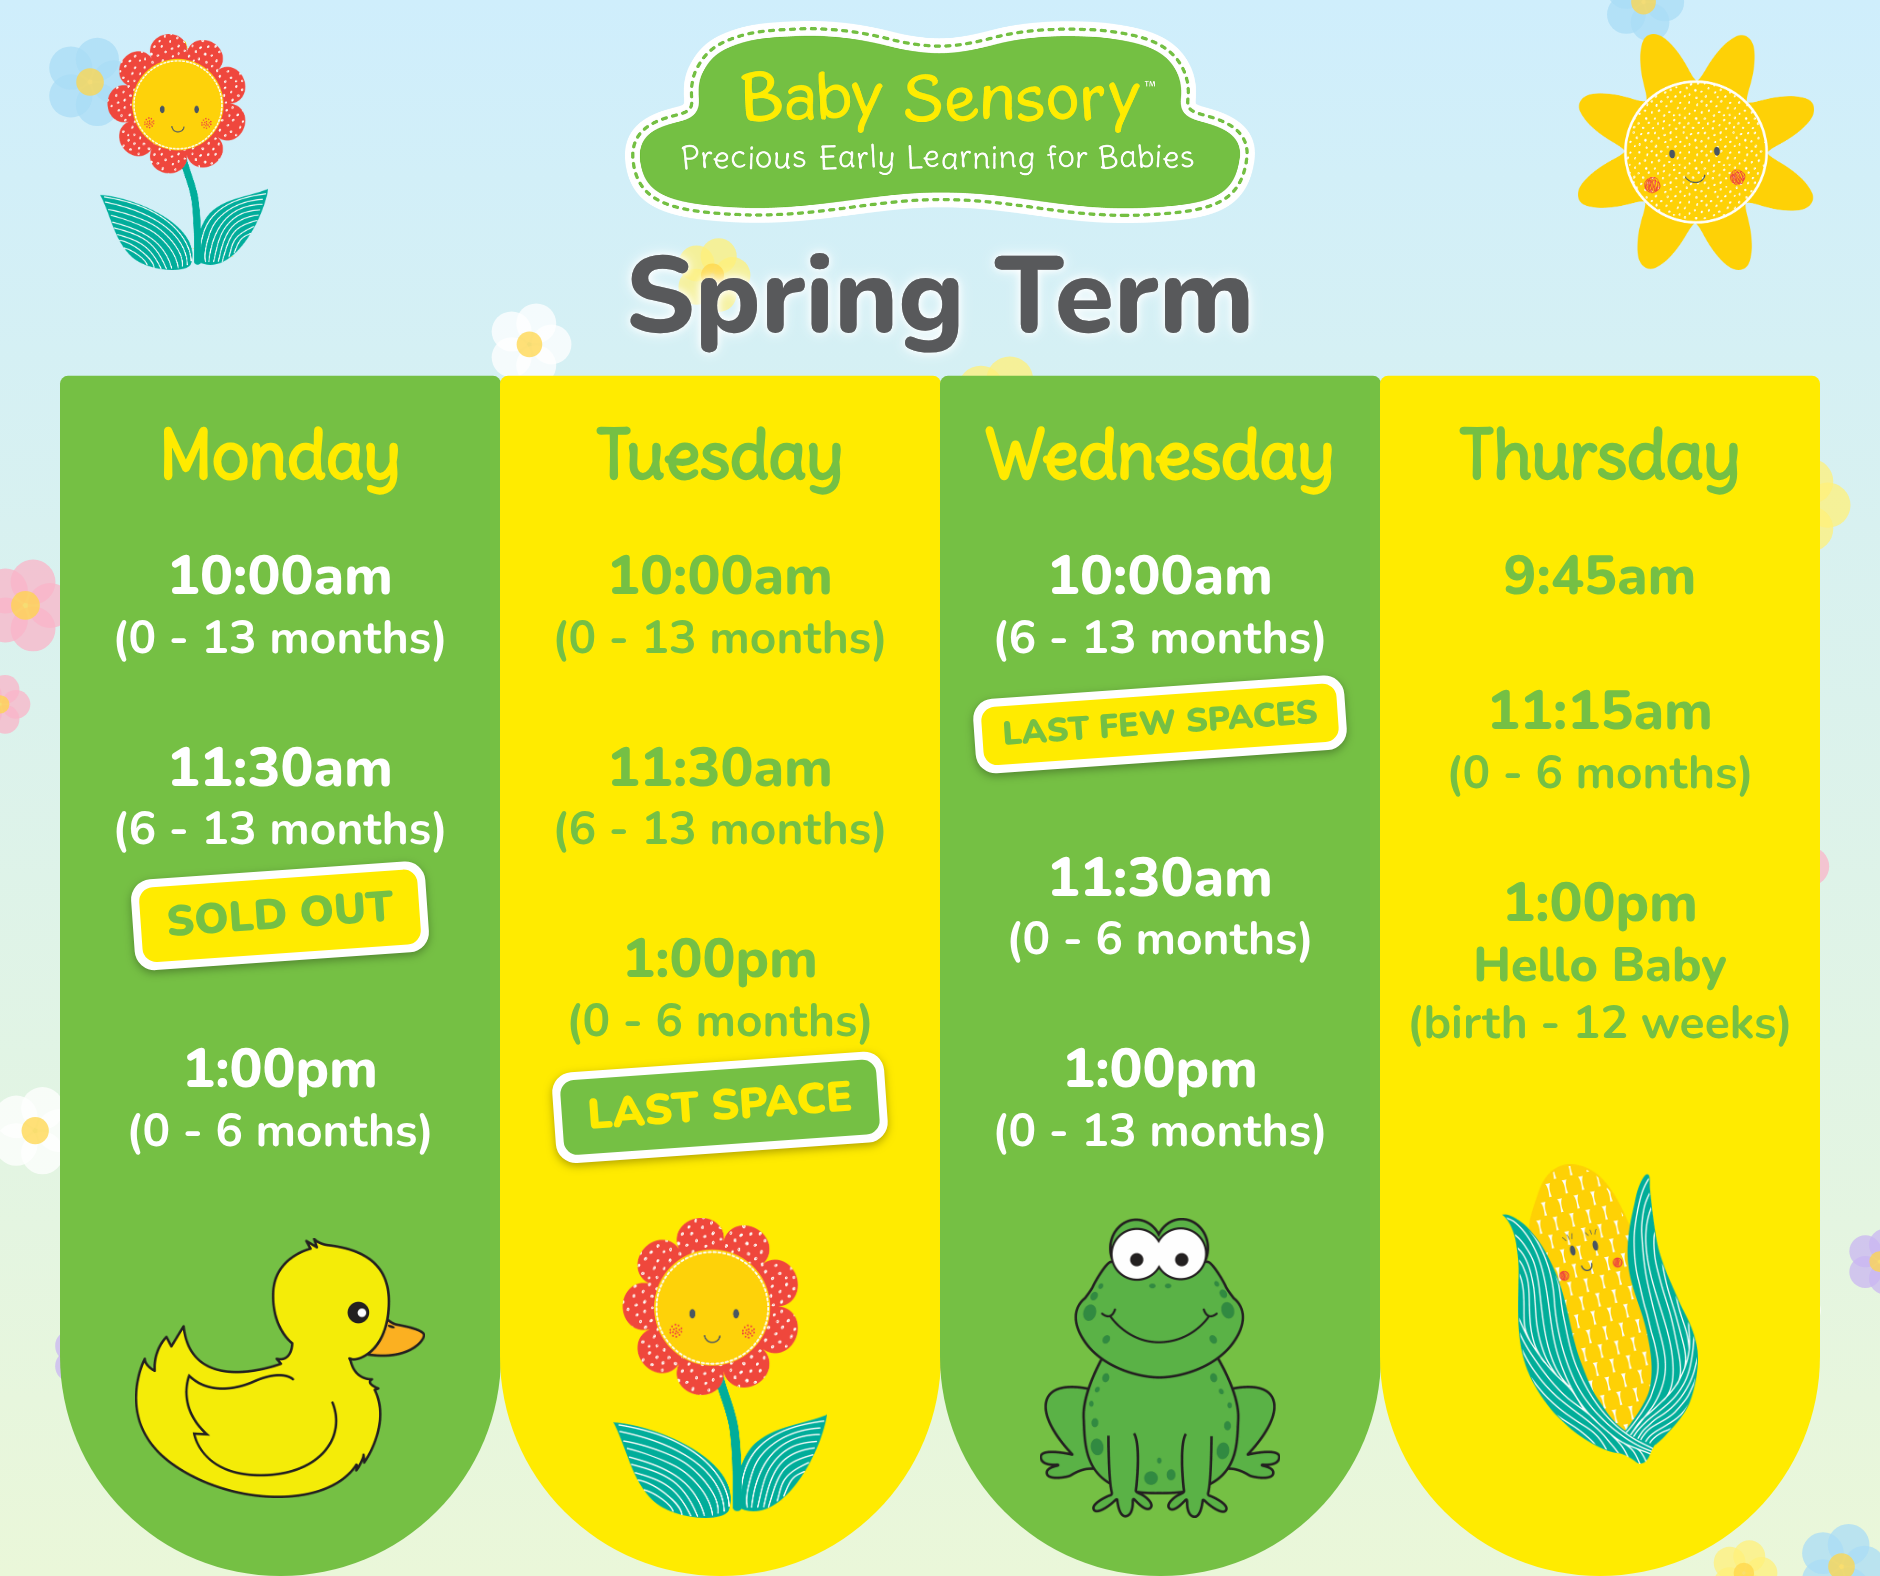
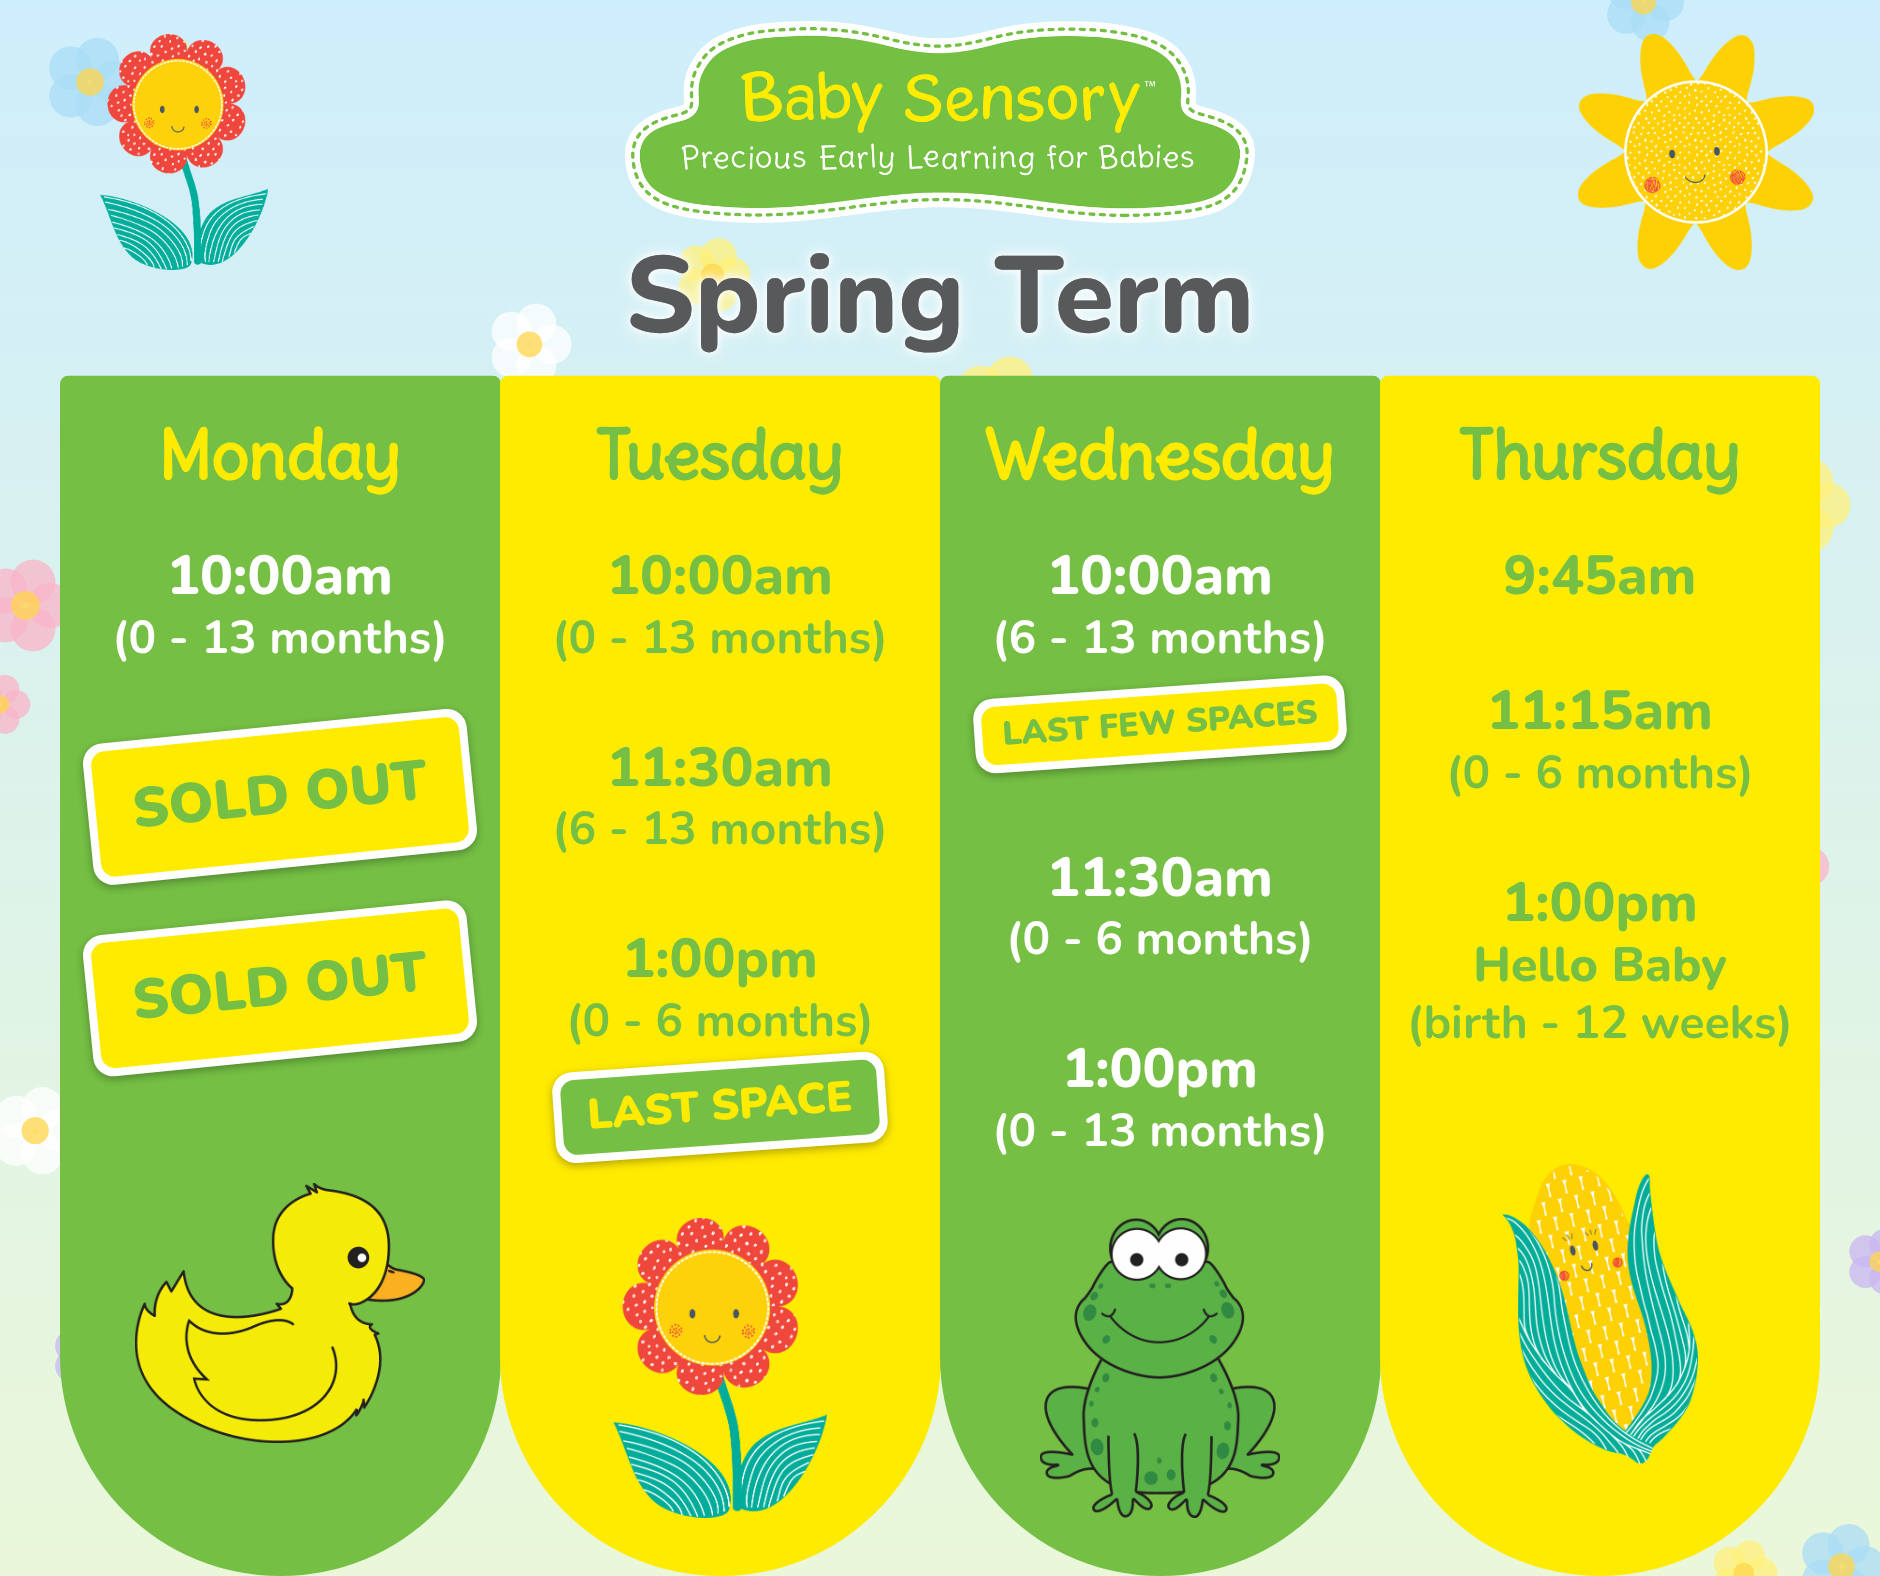
Stick SOLD OUT across the class; keep LAST SPACE below
Claude-Session: https://claude.ai/code/session_01Bjg3MjALQxg3A6aMzFvkmD

Changed region(s): [[0.0309, 0.4353, 0.2777, 0.9638]]

diff --git a/render.js b/render.js
@@ -48,7 +48,7 @@ function classLines(cls, opts) {
 const STICKERS = { sold: 'SOLD OUT', last: 'LAST SPACE', few: 'LAST FEW SPACES' };
 
 // A tilted label stuck across a class, like a "sold out" sticker on a poster
-function drawSticker(c, text, cx, cy, colW, px, onGreen, s) {
+function drawSticker(c, text, cx, cy, colW, px, onGreen, s, tilt, coverH = 0) {
   let size = px * 0.95;
   c.font = `900 ${size}px ${FONT}`;
   const maxW = colW * 0.86 - size * 1.2;
@@ -56,11 +56,12 @@ function drawSticker(c, text, cx, cy, colW, px, onGreen, s) {
     size *= 0.94;
     c.font = `900 ${size}px ${FONT}`;
   }
-  const w = c.measureText(text).width + size * 1.2;
-  const h = size * 1.75;
+  // a sold-out sticker is sized to hide the whole class underneath it
+  const w = Math.max(c.measureText(text).width + size * 1.2, coverH ? colW * 0.84 : 0);
+  const h = Math.max(size * 1.75, coverH * 1.02);
   c.save();
   c.translate(cx, cy);
-  c.rotate(-0.07);
+  c.rotate(tilt);
   c.shadowColor = 'rgba(0,0,0,0.3)';
   c.shadowBlur = 8 * s;
   c.shadowOffsetY = 3 * s;
@@ -330,8 +331,8 @@ function drawTimetable(canvas, state, images = {}) {
         }
       }
       const sticker = STICKERS[cls.sticker] || '';
-      // room under the class for its sticker, so the time and age stay readable
-      const stickerH = sticker ? z.time * 2 : 0;
+      // LAST SPACE stickers go under the class so it stays readable; SOLD OUT covers it
+      const stickerH = sticker && cls.sticker !== 'sold' ? z.time * 2 : 0;
       const h = lines.reduce((a, l) => a + l.px * lineH, 0) + stickerH;
       return { lines, h, sticker, stickerH, stickerPx: z.time * 0.82 };
     }).filter((b) => b.lines.length);
@@ -401,20 +402,24 @@ function drawTimetable(canvas, state, images = {}) {
     c.fillStyle = bodyCol;
     const stickers = [];
     for (const b of L.blocks) {
+      const blockTop = y;
       for (const ln of b.lines) {
         c.font = `${ln.kind === 'age' ? 700 : 800} ${ln.px}px ${FONT}`;
         y += ln.px;
         c.fillText(ln.text, cx, y);
         y += ln.px * (lineH - 1);
       }
-      if (b.sticker) {
-        stickers.push({ text: b.sticker, mid: y + b.stickerH * 0.56, px: b.stickerPx });
+      if (b.sticker && !b.stickerH) {
+        // sold out: stuck across the time, bigger and tilted more
+        stickers.push({ text: b.sticker, mid: (blockTop + y) / 2 + b.lines[0].px * 0.08, px: b.stickerPx * 1.3, tilt: -0.1, coverH: y - blockTop });
+      } else if (b.sticker) {
+        stickers.push({ text: b.sticker, mid: y + b.stickerH * 0.56, px: b.stickerPx, tilt: -0.07 });
         y += b.stickerH;
       }
       y += Math.max(gap, blockGapMin);
     }
     // stickers use the other column colour so they stand out
-    for (const st of stickers) drawSticker(c, st.text, cx, st.mid, colW, st.px, green, s);
+    for (const st of stickers) drawSticker(c, st.text, cx, st.mid, colW, st.px, green, s, st.tilt, st.coverH);
 
     // Brand picture in the space left at the bottom of the column
     if (footIds.length) {

diff --git a/index.html b/index.html
@@ -196,9 +196,9 @@
 </div>
 
 <canvas id="canvas" hidden></canvas>
-<script src="assets-data.js?v=5"></script>
-<script src="themes.js?v=5"></script>
-<script src="render.js?v=5"></script>
-<script src="app.js?v=5"></script>
+<script src="assets-data.js?v=6"></script>
+<script src="themes.js?v=6"></script>
+<script src="render.js?v=6"></script>
+<script src="app.js?v=6"></script>
 </body>
 </html>
